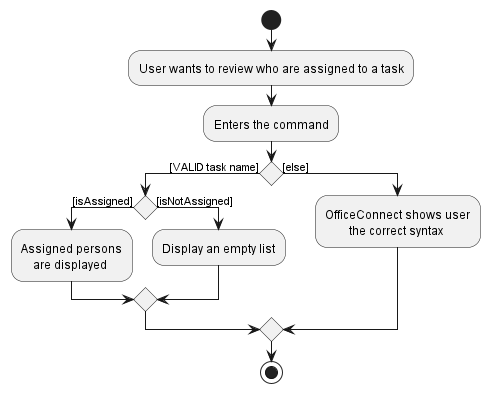
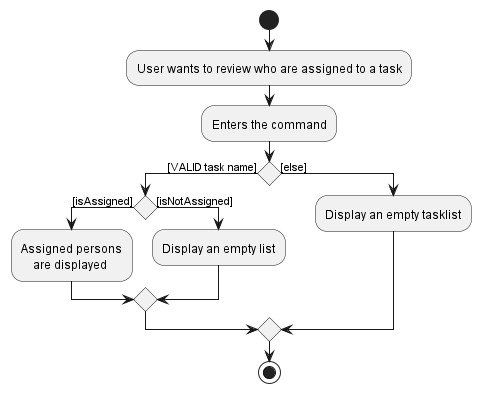
Update Findp and Findt

diff --git a/docs/DeveloperGuide.md b/docs/DeveloperGuide.md
@@ -314,6 +314,18 @@ Below is an activity diagram that illustrates the control flow for the Find feat
 
 ![FindTaskActivityDiagram](images/FindActivityDiagram.png)
 
+#### 3.4.2 Design Considerations
+
+**Aspect: Updating GUI**
+
+* **Alternative 1 (current choice):** Displays empty list when no persons are found.
+  * Pros: It provides a consistent user experience, as users can expect the same behavior when searching for people throughout the application.
+  * Cons: An empty list can sometimes appear visually unappealing and may give the impression that the application is not functioning correctly.
+
+* **Alternative 2:** Displays most recent valid search result list when no persons are found.
+  * Pros: Saves time for users who may have previously searched for similar or related information and want to quickly access those results again.
+  * Cons: Could lead to frustration or confusion if users don't understand why they're seeing old results instead of new ones.
+
 ### 3.4 Finding a Task's Assignees
 Syntax: `findt TASKNAME` 
 
@@ -1409,7 +1421,7 @@ testers are expected to do more *exploratory* testing.
      3. Test case: `findp` <br>
         Expected: All persons and tasks in OfficeConnect are displayed. "Listed all persons and tasks" shown in status message.
      4. Other incorrect find persons commands to try: `findp !@#`)<br>
-        Expected: No changes in GUI. "No such person found" shown in status message.
+        Expected: No persons are displayed. "No such person found" shown in status message.
   
   2. There are no persons in OfficeConnect with the specified name.
      1. Prerequisites: Only one person can be specified.
@@ -1429,7 +1441,7 @@ testers are expected to do more *exploratory* testing.
      3. Test case: `findt` <br>
         Expected: All persons and tasks in OfficeConnect are displayed. "Listed all persons and tasks" shown in status message.
      4. Other incorrect find tasks commands to try: `findt !@#`)<br>
-        Expected: No changes in GUI. "No such task found" shown in status message.
+        Expected: No tasks are displayed. "No such task found" shown in status message.
   
   2. There are no tasks in OfficeConnect with the specified title.
      1. Prerequisites: Only one title can be specified.

diff --git a/docs/UserGuide.md b/docs/UserGuide.md
@@ -326,6 +326,12 @@ Displays a list of all tasks in OfficeConnect.
 Format: `listt`
 
 #### 3.3.5 Locating Tasks by Title: `findt`
+<div markdown="span" class="alert alert-primary">:bulb: **Tip:**
+
+* Upon entering the `findt` command, all persons and tasks would be listed together with the message "Listed all persons and tasks"
+</div>
+
+Finds persons whose name contains any of the given keywords.
 
 Finds the task based on given keyword.
 
